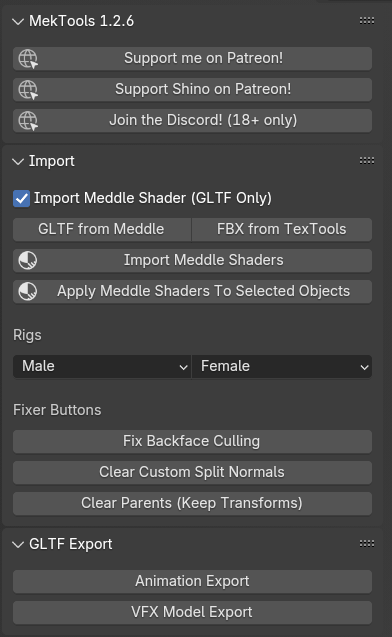
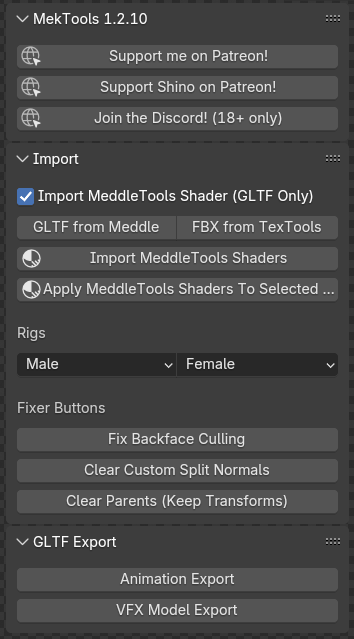
updating UI and README info

diff --git a/__init__.py b/__init__.py
@@ -29,7 +29,7 @@ from .properties import (
 bl_info = {
     "name": "Mektools",
     "author": "Meku Maki, Shino Mythmaker",
-    "version": (1,2,10),
+    "version": (1,2,11),
     "blender": (4,2),
     "description": "Mektools Addon Structure",
     "category": "Import-Export",

diff --git a/README.md b/README.md
@@ -1,6 +1,6 @@
-# Mektools-Version 1.2.6
+# Mektools-Version 1.2.10
 
-## Mektools 1.2 for Dawntrail is finally here!
+## Mektools for Dawntrail is finally here!
 
 ![MekTools Addon Interface](assets/mektools_ui.png)
 
@@ -15,8 +15,8 @@ Now you need to have something to import.
 
 Assuming you already have Dalamud installed along with Mare, Penumbra, Glamourer and other required plugins...
 
-Install [Meddle](https://github.com/PassiveModding/Meddle)
-Install [MeddleTools](https://github.com/PassiveModding/MeddleTools)
+Install [Meddle](https://github.com/PassiveModding/Meddle) This is needed for exporting assets from the game client.
+Install [MeddleTools](https://github.com/PassiveModding/MeddleTools) This is needed for easy setup of shaders in blender of those assets!
 
 On the Meddle UI, go to the Options tab, change Export type to RAW. This will export raw textures that are used in the shaders from Skulblaka. Then go to the Character tab, select your character and hit Export All Models.
 
